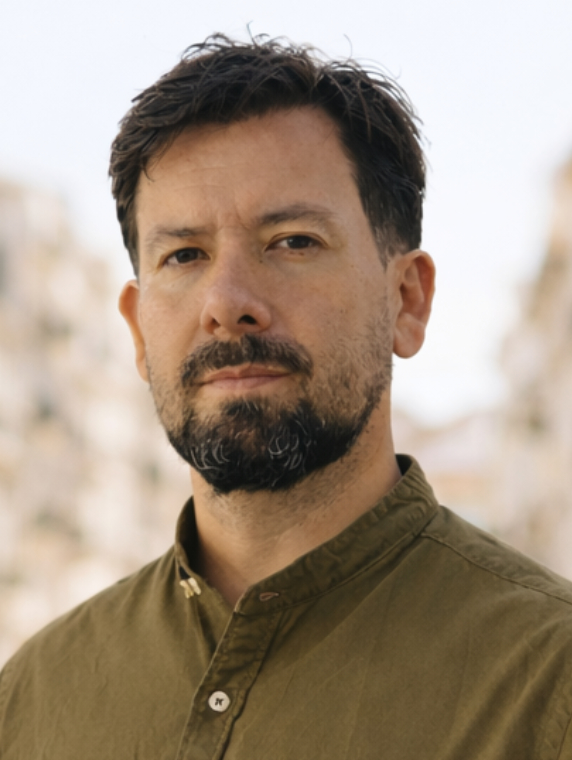
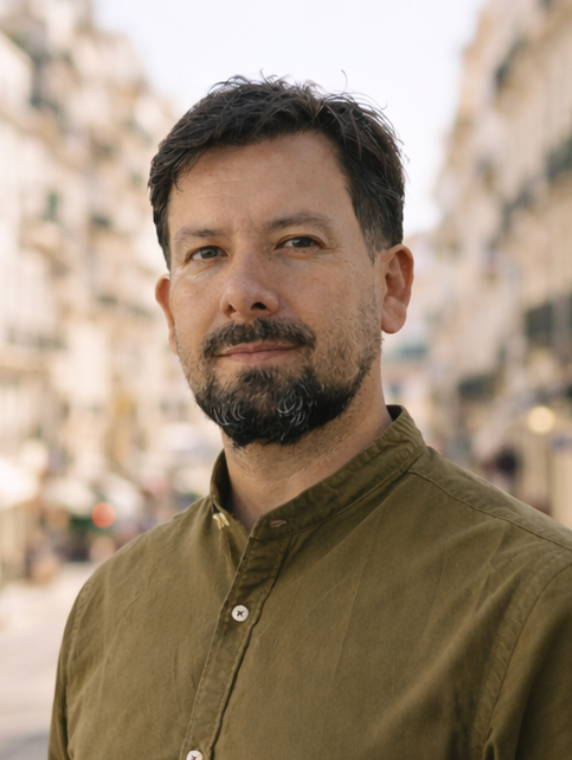
Update team member details and images: Add Carla Vazquez as UX/UI Director with updated description and LinkedIn link. Adjust image URLs and enhance card overlay styling. Include new team images for Carla and Nicolás.

diff --git a/components/marketing/Team.tsx b/components/marketing/Team.tsx
@@ -47,9 +47,17 @@ const TEAM_MEMBERS: TeamMember[] = [
     linkedinUrl: 'https://www.linkedin.com/in/jdortegar/',
     imageUrl: '/images/team-3.jpg',
   },
- 
   {
     id: 4,
+    name: 'CARLA<br/>VAZQUEZ',
+    role: 'UX/UI Director',
+    description:
+      'Shapes product design and user research. Makes the platform intuitive and delightful to use.',
+    linkedinUrl: 'https://www.linkedin.com/in/carla-vazquez/',
+    imageUrl: '/images/team-4.jpg',
+  },
+  {
+    id: 5,
     name: 'NICOLÁS<br/>ASMAR',
     role: 'Creative Director',
     description:
@@ -57,15 +65,7 @@ const TEAM_MEMBERS: TeamMember[] = [
     linkedinUrl: 'https://www.linkedin.com/in/nicolas-asmar/',
     imageUrl: '/images/team-1.png',
   },
-  {
-    id: 5,
-    name: 'CARLA<br/>VAZQUEZ',
-    role: 'UX/UI Director',
-    description:
-      'Shapes product design and user research. Makes the platform intuitive and delightful to use.',
-    linkedinUrl: 'https://www.linkedin.com/in/carla-vazquez/',
-    imageUrl: '/images/team1.png',
-  },
+ 
 ];
 
 function renderNameWithBreaks(name: string) {
@@ -93,7 +93,7 @@ function renderCardFront(member: TeamMember) {
       />
 
       {/* Dark Gradient Overlay */}
-      <div className="absolute inset-0 bg-linear-to-t from-black/40 via-black/20 to-transparent" />
+      <div className="absolute inset-0 bg-linear-to-t from-black/10 via-black/5 to-transparent" />
 
       {/* Name Overlay */}
       <div className="absolute bottom-0 left-0 right-0 p-6 xl:p-8 2xl:p-10">
